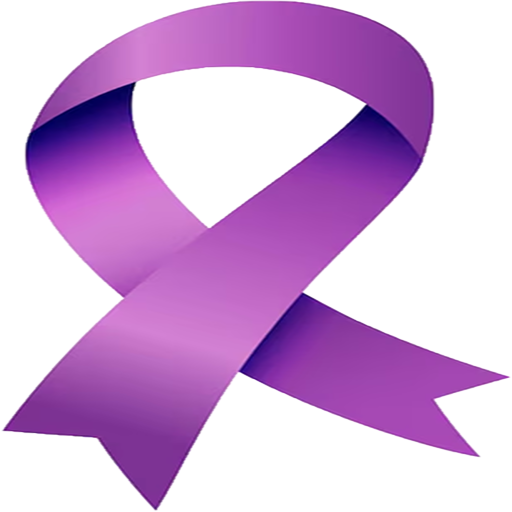
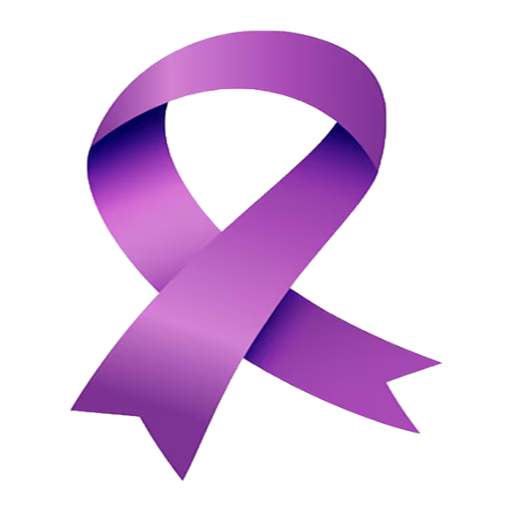
Ajustes gerais para melhor visualização em telas menores.

Changed region(s): [[0.0, 0.0, 1.0, 1.0], [0.6875, 0.625, 0.75, 0.6562]]

diff --git a/index.html b/index.html
@@ -231,9 +231,7 @@
                                 <!-- CARD 1: Frase Motivacional (Link para página de frases) -->
                                 <div class="card-content ativo">
                                     <div class="card-text">
-                                        <span>Nenhuma mulher deveria viver com medo. Juntos, podemos construir um mundo
-                                            onderespeito
-                                            e dignidade sejam a norma.
+                                        <span>Nenhuma mulher deveria viver com medo. Juntos, podemos construir um mundo onde respeito e dignidade sejam a norma.
                                         </span>
                                     </div>
                                 </div>

diff --git a/css/index.css b/css/index.css
@@ -199,7 +199,7 @@ p {
 .card {
     width: 100%;
     max-width: 100%;
-    height: 320px;
+    height: 350px;
     perspective: 1000px;
     cursor: pointer;
     transition: transform 0.4s ease;
@@ -421,7 +421,9 @@ p {
         width: 100%;
     }
 
-
+    .card {
+        min-height: 370px;
+    }
 
     .col-esquerda p {
         margin-bottom: 10px;
@@ -473,7 +475,7 @@ p {
 
 
     .card-text span {
-        font-size: 28px;
+        font-size: 20px;
     }
 
     .cta {
@@ -554,8 +556,18 @@ p {
 
     }
 
+    .card {
+        width: 100%;
+        max-width: 100%;
+        height: 360px;
+    }
+
     .lista-acoes span {
         font-size: 17px;
+    }
+
+    .card-text span {
+        font-size: 18px;
     }
 
     .hug {
